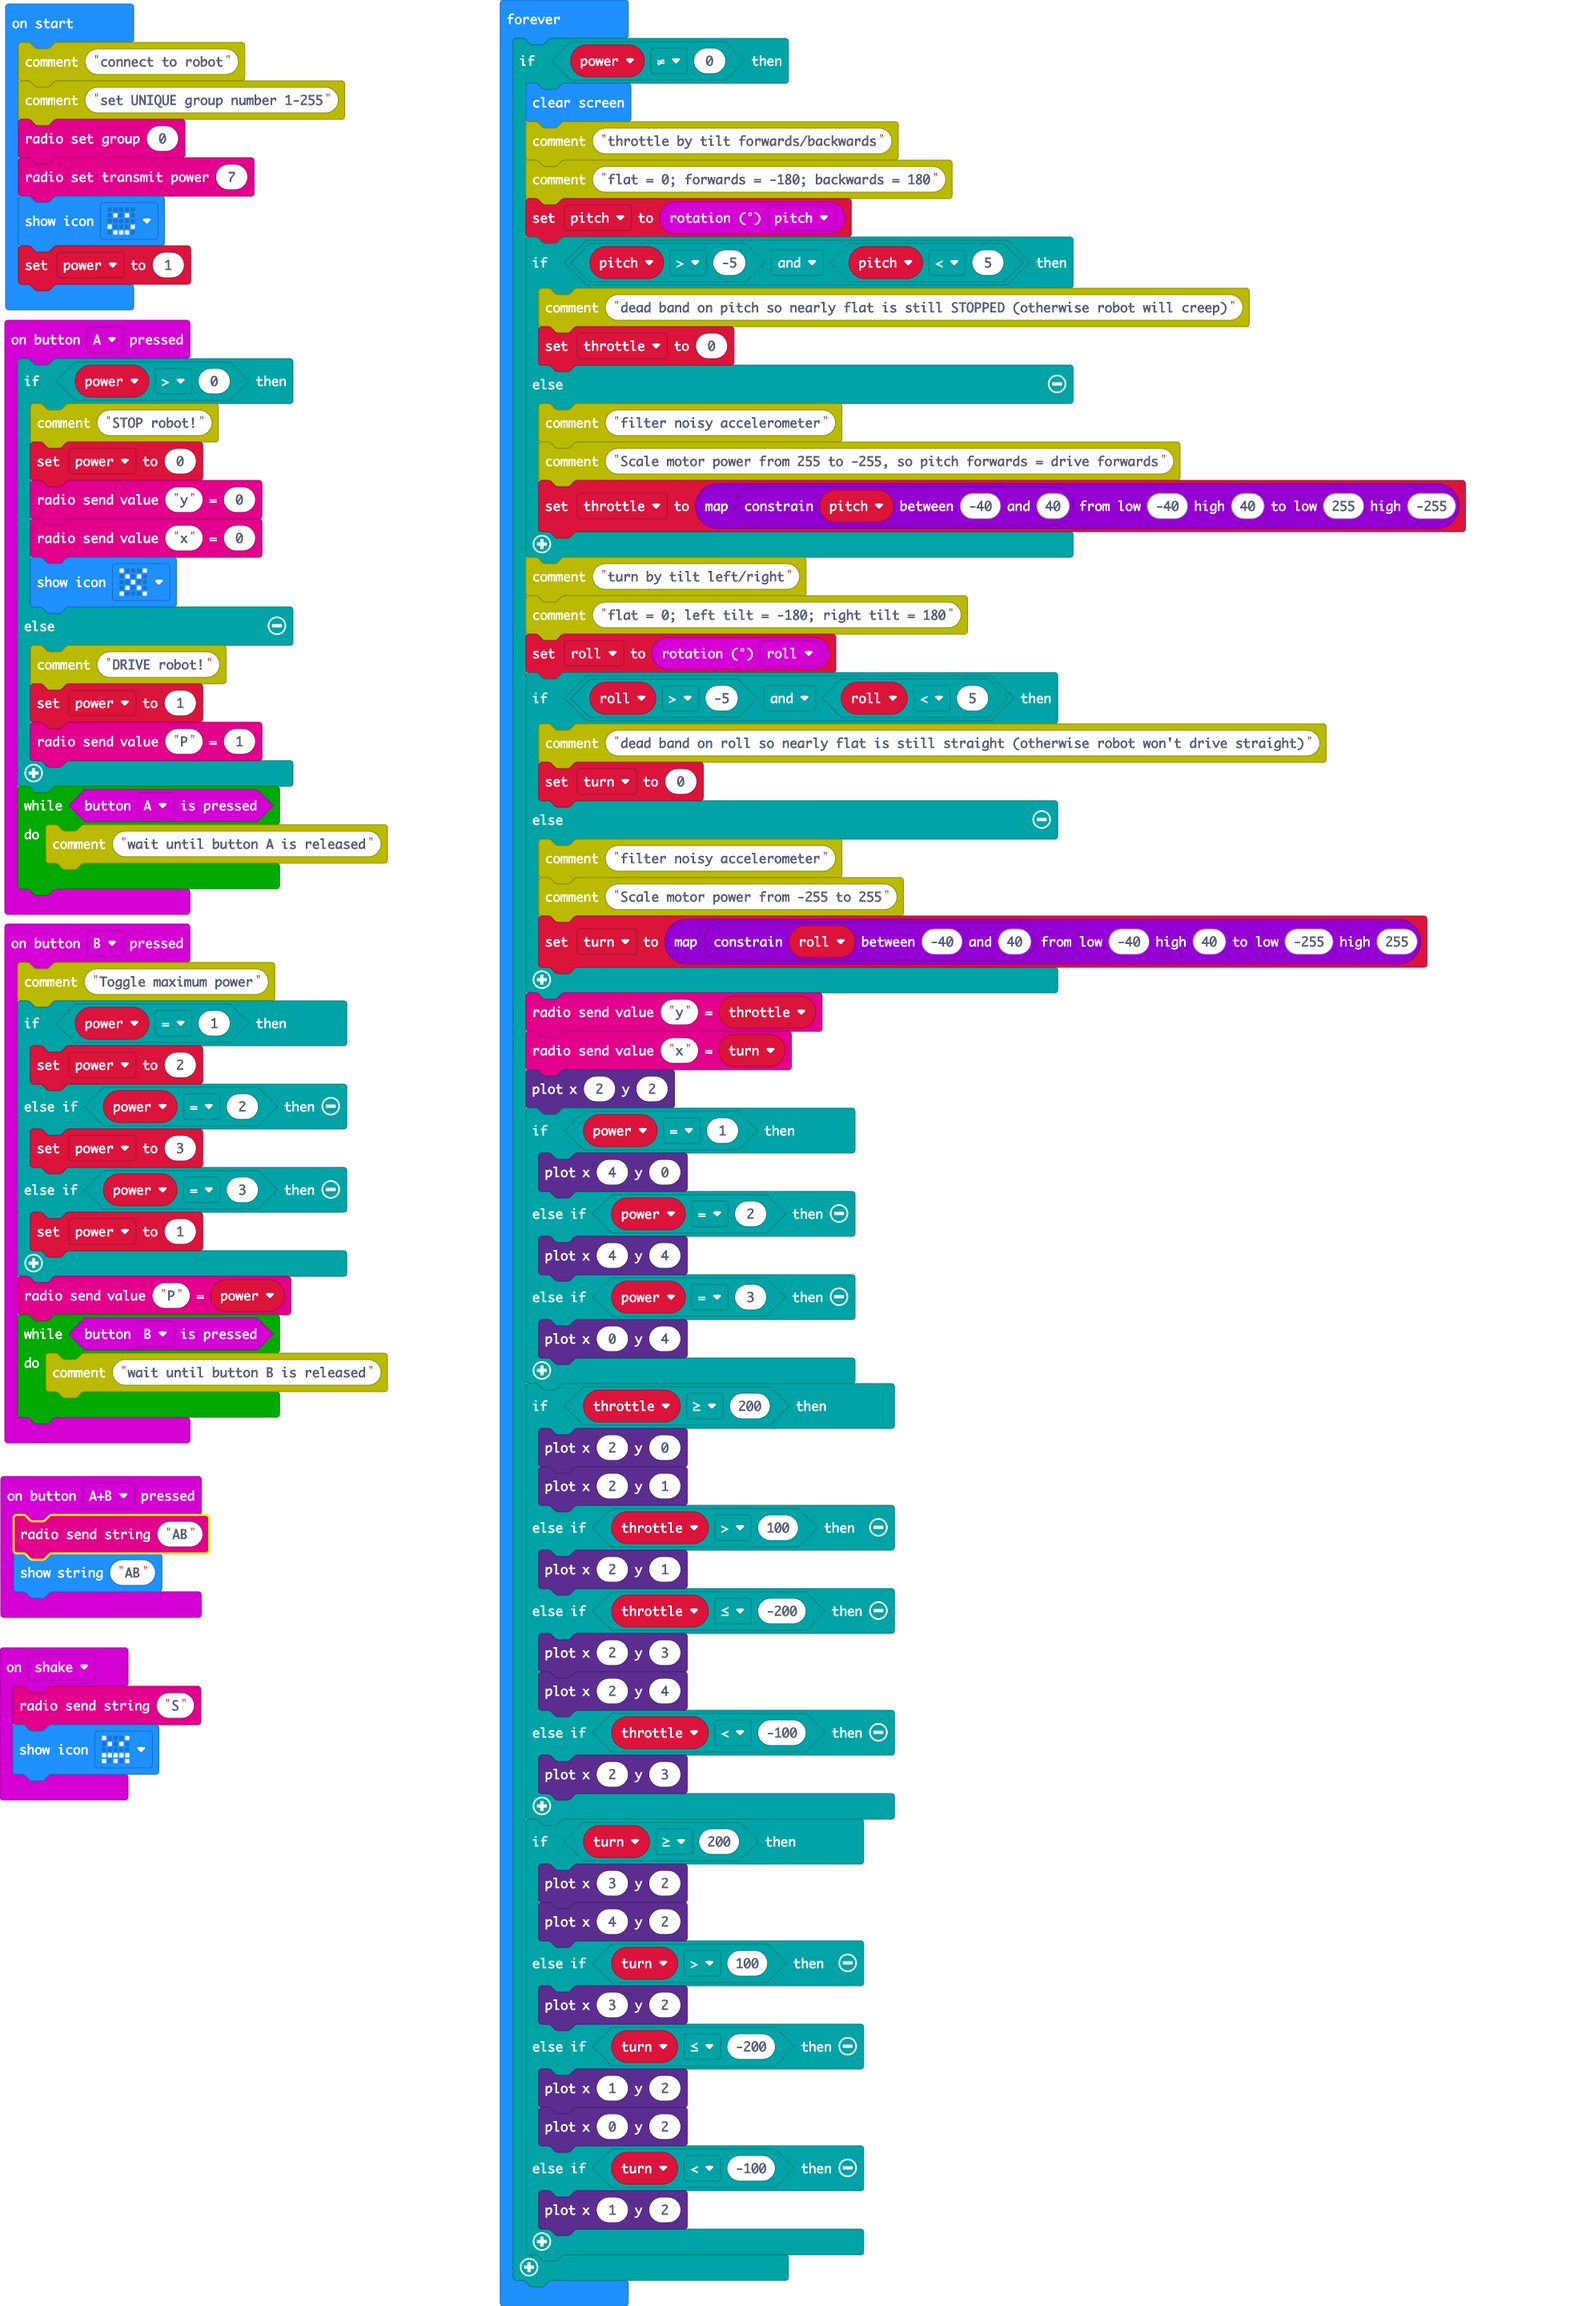
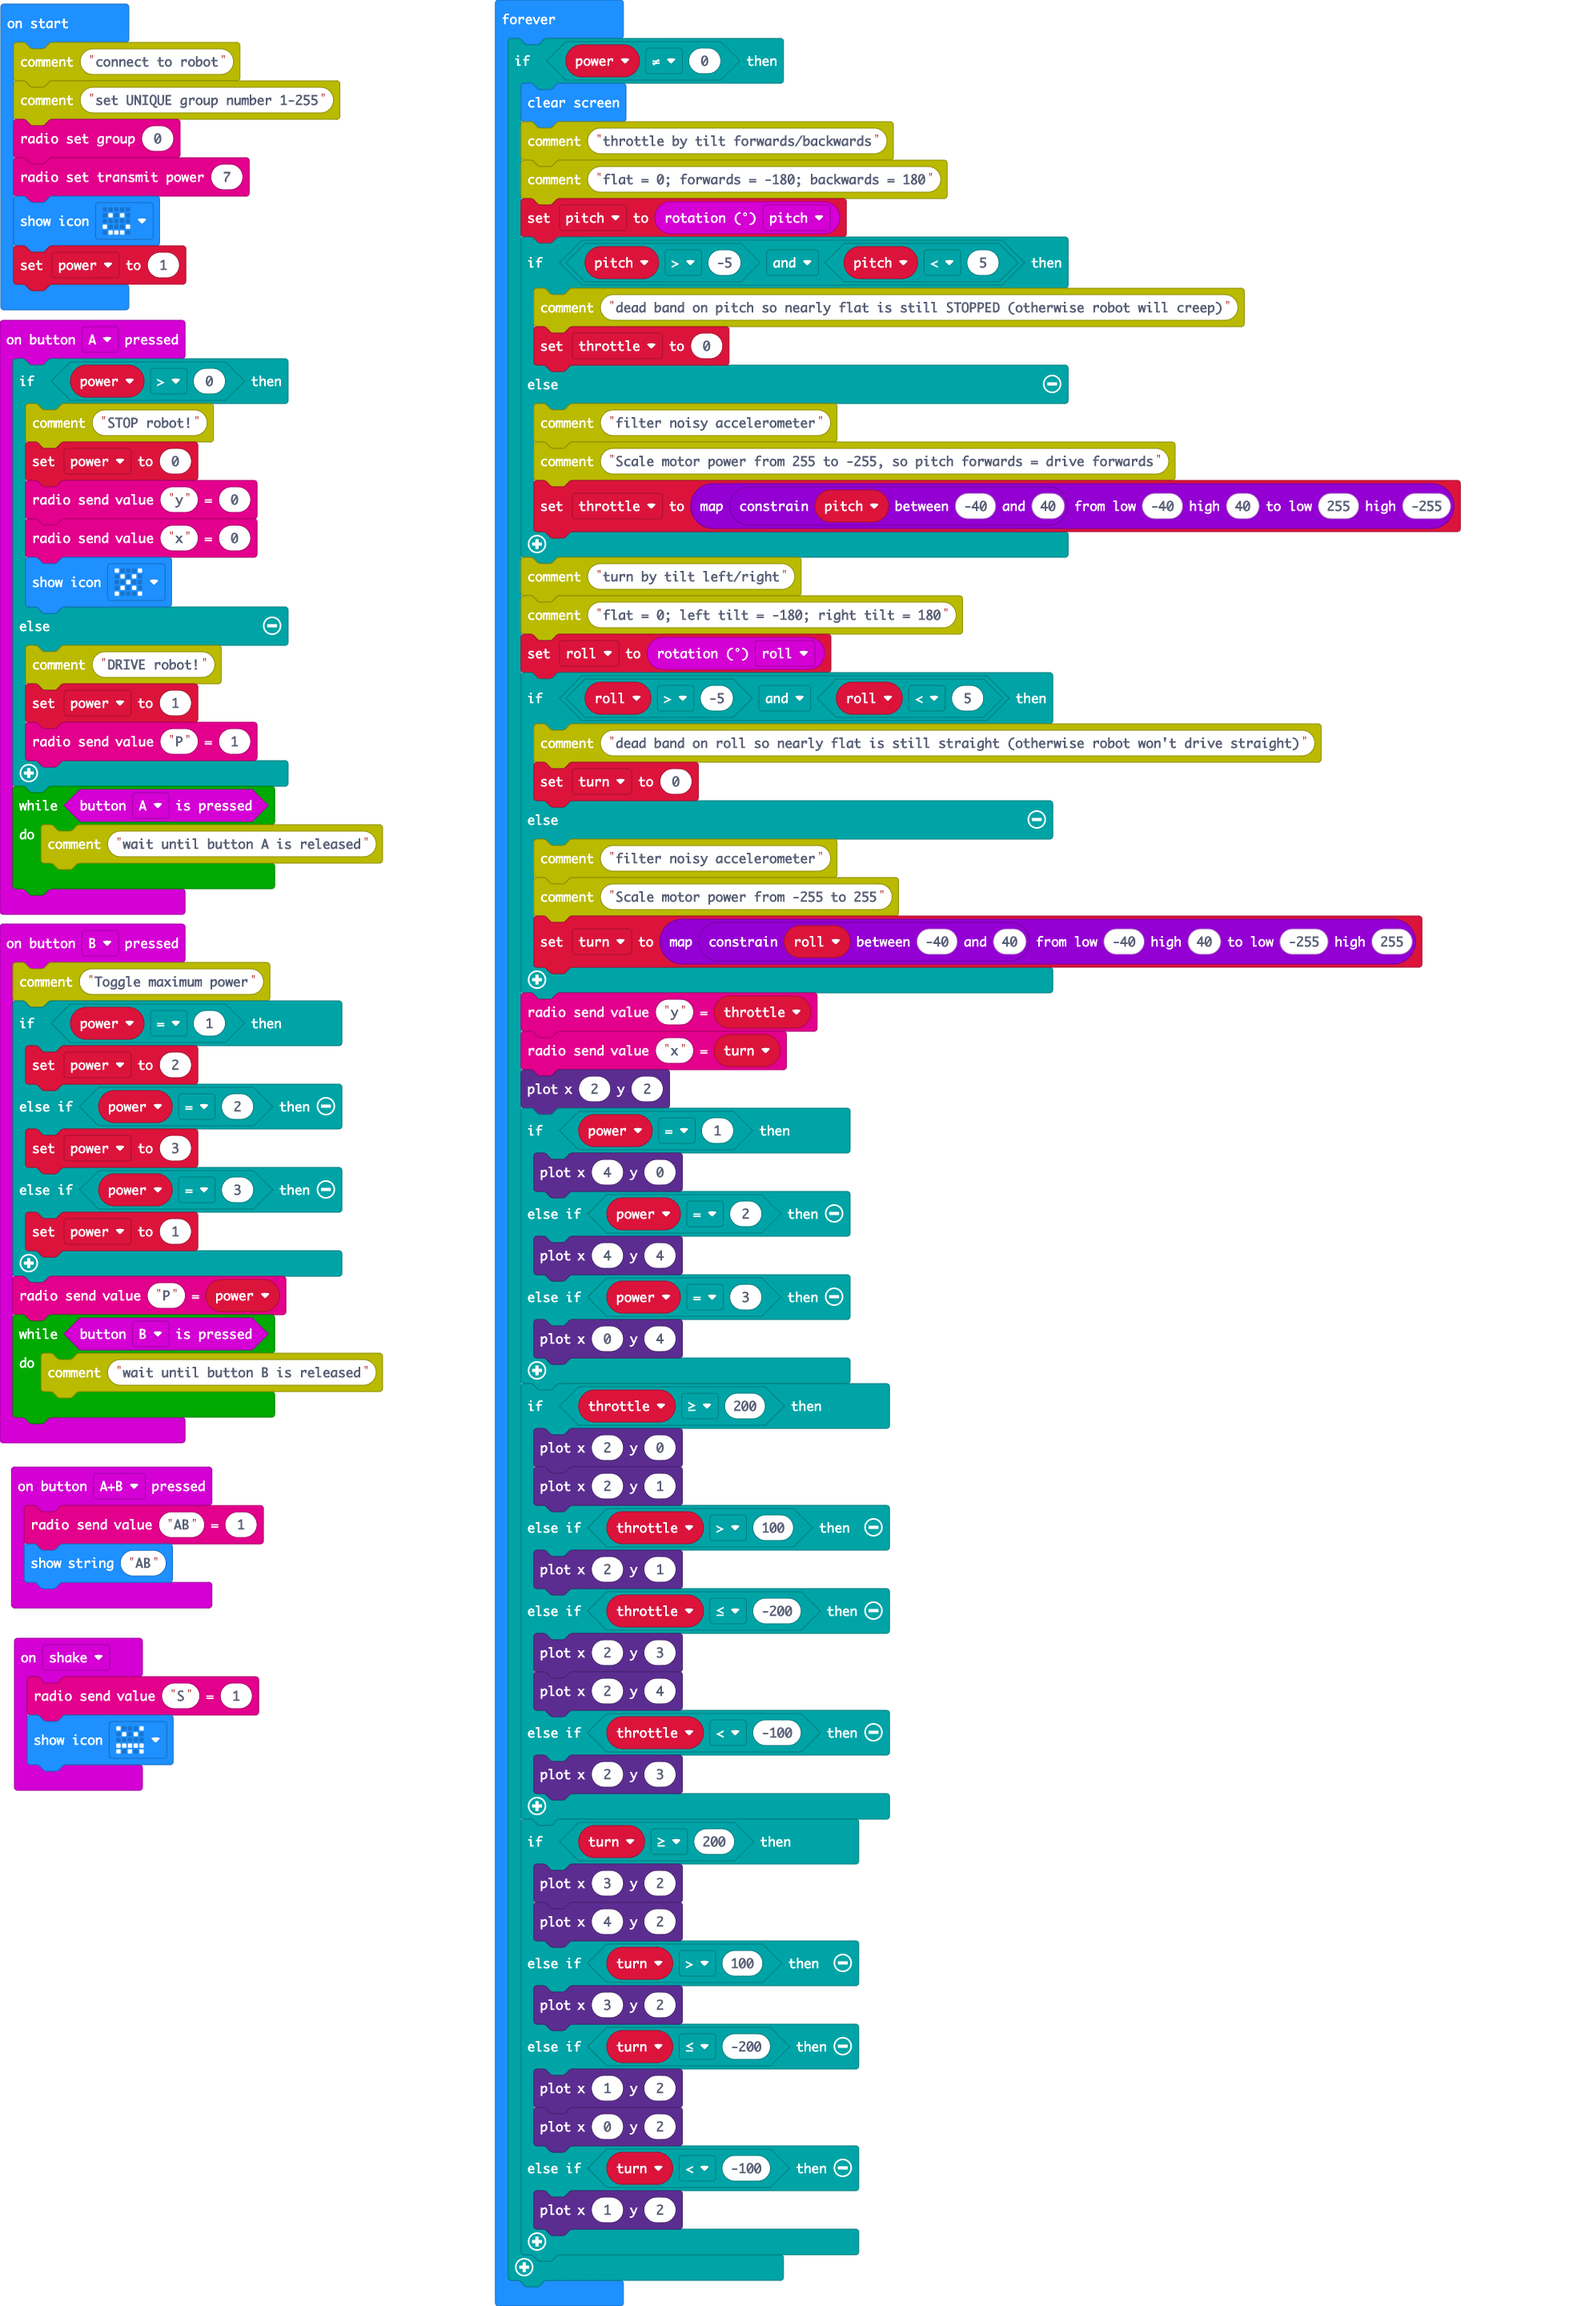
Update pxt.json, main.blocks, main.ts

diff --git a/main.ts b/main.ts
@@ -15,7 +15,7 @@ input.onButtonPressed(Button.A, function () {
     }
 })
 input.onButtonPressed(Button.AB, function () {
-    radio.sendString("AB")
+    radio.sendValue("AB", 1)
     basic.showString("AB")
 })
 input.onButtonPressed(Button.B, function () {
@@ -33,7 +33,7 @@ input.onButtonPressed(Button.B, function () {
     }
 })
 input.onGesture(Gesture.Shake, function () {
-    radio.sendString("S")
+    radio.sendValue("S", 1)
     basic.showIcon(IconNames.Angry)
 })
 let turn = 0
